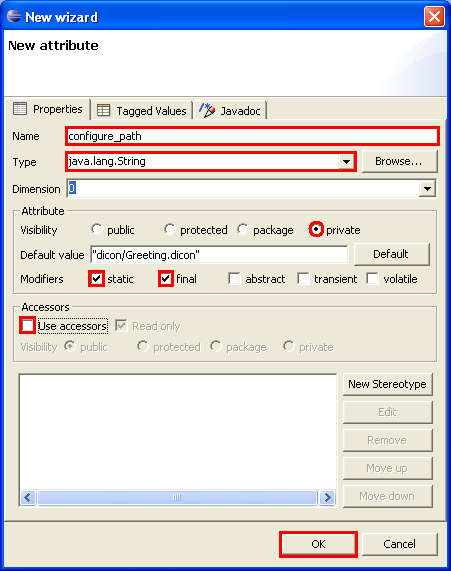
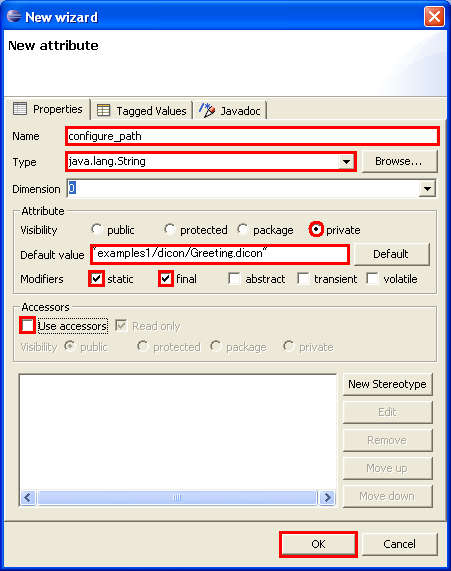
git-svn-id: https://www.seasar.org/svn/www/www@200 1447b1ea-c1f7-0310-af6f-cdb6f6f84f4f

Changed region(s): [[0.1863, 0.4168, 0.7761, 0.4764]]

diff --git a/en/tutorial/debug/setup/index.html b/en/tutorial/debug/setup/index.html
@@ -1,0 +1,77 @@
+<!DOCTYPE html PUBLIC "-//W3C//DTD HTML 4.01 Transitional//EN" "http://www.w3.org/TR/html4/loose.dtd">
+<html>
+<!-- don't edit start -->
+<head><title>Debug Setup</title><meta http-equiv="Content-Type" content="text/html; charset=UTF-8">
+<meta http-equiv="Content-Style-Type" content="text/css">
+<link media="screen" href="../../css/install.css" "type=text/css" rel="stylesheet">
+<link href="../../seasar_b.css" type="text/css" rel="stylesheet" media="screen"><script src="seasar_b.js" type="text/JavaScript" language="JavaScript"></script>
+</head><body onload="preload('en')">
+<table width="100%" border="0" cellspacing="0" cellpadding="0" align="left"><tr>
+<td align="left" valign="top" width="780"><table width="780" border="0" cellspacing="0" cellpadding="0" class="white">
+<tr><td colspan="7"><img height="5" width="780" src="../../images/top01_b.gif" alt=""></td></tr>
+<tr><td><img height="117" width="235" src="../../images/top02_b.gif" alt="Seasar"></td>
+<td colspan="3"><img height="117" width="289" src="../../images/top03.gif" alt="DI Container with AOP"></td>
+<td colspan="3" align="right"></td>
+</tr><tr><td rowspan="2"><img src="../../images/top04.gif" alt="" height="49" width="235"></td>
+<td><a href="http://www.seasar.org/en/index.html"><img src="../../images/menu01_b_en.gif" height="30" width="78" border="0" alt="" id="menu01" onmouseover="swap(1)" onmouseout="restore(1)"></a></td>
+<td><a href="http://www.seasar.org/en/projects.html"><img src="../../images/menu02_b_en.gif" height="30" width="101" border="0" alt="" id="menu02" onmouseover="swap(2)" onmouseout="restore(2)"></a></td>
+<td><a href="http://www.seasar.org/en/products.html"><img src="../../images/menu06_b_en.gif" height="30" width="110" border="0" alt="" id="menu06" onmouseover="swap(6)" onmouseout="restore(6)"></a></td>
+<td><a href="http://www.seasar.org/en/documents.html"><img src="../../images/menu04_b_en.gif" height="30" width="109" border="0" alt="" id="menu04" onmouseover="swap(4)" onmouseout="restore(4)"></a></td>
+<td><a href="http://www.seasar.org/en/resources.html"><img src="../../images/menu05_b_en.gif" height="30" width="113" border="0" alt="" id="menu05" onmouseover="swap(5)" onmouseout="restore(5)"></a></td>
+<!--
+<td><img src="../../images/menu07_b_en.gif" height="30" width="109" border="0" alt=""  id="menu07" onmouseover="swap(7)" onmouseout="restore(7)"></td>
+//-->
+<td><img height="30" width="34" src="../../images/menu06.gif" alt=""></td></tr><tr>
+
+<td colspan="6"><img height="19" width="545" src="../../images/spacer.gif" alt=""></td></tr></table>
+<table  width="780" border="0" cellspacing="0" cellpadding="0" class="menu">
+<tr align="left" valign="top"><td width="14"><img height="14" width="14" src="../../images/spacer.gif" alt=""></td><td width="740" class="main">
+<!-- don't edit end -->
+<!-- document start -->
+
+<font size=6><b>Debug Setup</b></font> <font size=3>by H.Ozawa</font><br />
+<hr /><br />
+To debug Seasar, we will first setup Eclipse preference.
+<ol>
+<li>Select <span class="menu2">Window</span> - <span class="menu2">Preferences...</span>.</li><br />
+<img src="setup1.jpg"/><br/>
+<li>Select <span class="menu2">UML</span>. This is a preference, but it bothers me to see the splash screen each time so I usually uncheck <span class="check">Show splash screen</span>.<br />
+I usually work with the "Eclipse" presentation style, but for now let's set to to <span class="check">Omondo</span>.<br />
+Select the <span class="button">Apply</span> button.
+</li><br />
+<img src="setup2.jpg"/><br/>
+<li>Error messages usually display which line number has the error. To track the error, we'll display the line number.<br />
+Select <span class="menu2">General</span> - <span class="menu2">Editors</span> - <span class="menu2">Text Editors</span>. Set "Displayed tab width" to <span class="enter">2</span> and check the <span class="check">Show line numbers</span>.<br />
+Select the <span class="button">OK</span> button.</li><br />
+<img src="setup3.jpg"/><br/>
+<li>Class diagram should now be in UML notation.</li><br />
+<img src="setup4.jpg"/><br/>
+<li>We'll now activate Kijimuna to find any dicon errors.<br />
+Right click on the package - in this example, right click on <span class="menu2">examples1</span> and select <span class="menu2">Properties</span> in the context menu.</li><br />
+<img src="setup5.jpg"/><br/>
+<li>Select <span class="menu2">Kijimuna</span> and check on <span class="check">Seasar2 project</span>. Select the <span class="button">OK</span> button.</li><br />
+<img src="setup6.jpg"/><br/>
+</ol>
+We are now ready to start debugging!<br />
+<HR><BR>
+<H3>Content</H3>
+<TABLE class="content" width="400">
+<TR><TH class="header"><A href="../../index.html">Seasar UML Tutorial Page</A></TH></TR>
+<TR><TD>Debug Setup</TD></TR>
+<TR><TD>Debugging UML HelloWorld1</TD></TR>
+</TABLE>
+<!-- document end -->
+<!-- don't edit start -->
+</td>
+<td width="14"><img height="14" width="14" src="../../images/spacer.gif" alt=""></td>
+</tr><tr>
+<td width="14"><img height="30" width="14" src="../../images/spacer.gif" alt=""></td>
+<td width="766"><img height="30" width="592" src="../../images/spacer.gif" alt=""></td></tr><tr>
+<td width="14"><img height="14" width="14" src="../../images/spacer.gif" alt=""></td>
+<td width="766" class="copyright"> Copyright&copy;2005, H.Ozawa. All rights reserved.</td>
+</tr></table>
+<td class="backright" align="left" valign="top">&nbsp;</td></tr><tr>
+<td class="backunder" align="left"  valign="top" width="780" height="16">&nbsp;</td>
+<td class="backcorner" align="left" valign="top" height="16">&nbsp;</td>
+</tr></table></body>
+<!-- don't edit end -->

diff --git a/en/tutorial/uml/helloworld/index3.html b/en/tutorial/uml/helloworld/index3.html
@@ -39,7 +39,7 @@
 <img src="uml42.jpg"/><br/>
 <li>Right click on the <span class="menu2">main.UMLHelloWorld1</span> and select <span class="menu2">New</span> - <span class="menu2">Attribute</span>.</li><br />
 <img src="uml43.jpg"/><br/>
-<li>Enter <span class="enter">configure_path</span> as the "Name", <span class="enter">java.lang.String</span>, select <span class="check">private</span> as the "Visibility of Attribute", check <span class="check">static</span> and <span class="check">final</span> as Modifiers, and uncheck <span class="check">Use accessors</span>.<br />
+<li>Enter <span class="enter">configure_path</span> as the "Name", <span class="enter">java.lang.String</span>, enter <span class="enter">"examples1/dicon/Greeting.dicon"</span> as the Default value, select <span class="check">private</span> as the "Visibility of Attribute", check <span class="check">static</span> and <span class="check">final</span> as Modifiers, and uncheck <span class="check">Use accessors</span>.<br />
 Select the <span class="button">OK</span> button.</li><br />
 <img src="uml44.jpg"/><br/>
 <li>We'll now enter codes to the main method.<br />
@@ -117,7 +117,7 @@ If there is an error, move on to the the <a href="../../debug/UMLHelloWorld/inde
 <TR><TD><A href="index.html">UML Hello World 1 - 1/3</A></TD></TR>
 <TR><TD><A href="index2.html">UML Hello World 1 - 2/3</A></TD></TR>
 <TR><TD>UML Hello World 1 - 3/3</TD></TR>
-<TR><TD><A href="../../debug/UMLHelloWorld/index.html">Debugging Seasar</A></TD></TR>
+<TR><TD><A href="../../debug/setup/index.html">Debugging Seasar</A></TD></TR>
 </TABLE>
 <!-- document end -->
 <!-- don't edit start -->

diff --git a/en/tutorial/index.html b/en/tutorial/index.html
@@ -38,13 +38,21 @@
 			<ul>
 				<li><a href="eclipse/Eclipse-SDK-3.1.1-win32/index.html">Setting Up Eclipse</a> - Eclipse is not necessary to use Seasar but it greatly improves productivity</li>
 				<li><a href="eclipse/uml_omondo/index.html">Setting Up Omondo UML Plugin</a> - UML is not necessary but it helps design in non-language dependent way.</li>
+				<li><a href="http://www.visual-paradigm.com/product/sde/ec/productinfosdeceec.jsp">Visual Paradigm</a> Another UML plugin for Eclipse.</li>
 				<li><a href="eclipse/seasar/index.html">Setting Up to Use Seasar</a> - adding Seasar classpath</li>
 				<li><a href="eclipse/kijimuna/index.html">Setting Up Kijimuna</a> - assist verification</li>
 			</ul>
 		</li>
 		<li>Examples
 			<ul>
-				<li><a href="uml/helloworld/index.html">UML Hello World!</a></li>
+				<li><a href="uml/helloworld/index.html">UML Hello World! (1/3)</a></li>
+				<li><a href="uml/helloworld/index2.html">UML Hello World! (2/3)</a></li>
+				<li><a href="uml/helloworld/index3.html">UML Hello World! (3/3)</a></li>
+			</ul>
+		</li>
+		<li>Debugging
+			<ul>
+				<li><a href="debug/setup/index.html">Getting Ready to Debug</a></li>
 			</ul>
 		</li>
 	</ul>

diff --git a/en/tutorial/eclipse/uml_omondo/index.html b/en/tutorial/eclipse/uml_omondo/index.html
@@ -31,7 +31,7 @@
 
 <font size=6><b>Omondo UML Eclipse Plugin</b></font> <font size=3>by H.Ozawa</font><br />
 <hr /><br />
-UML is not necessary to use Seasar nor Eclipse but it helps design software in a manner that is independent of a development language.
+UML is not necessary to use Seasar nor Eclipse but it helps design software in a manner that is independent of a development language. <font color="red"><b>Be warned that free version of Omondo UML Eclipse Plugin does not allow created UML diagrams to be shared! This implies that if you ever reinstall your Eclipse, you will no longer be able to open the diagrams you created earlier!</b></font>
 <OL>
 <LI>First of all, we need to download the plugin. Goto to <A href="http://www.eclipseuml.com/">http://eclipseuml.com/</A> and select the <SPAN class="enter">download...</SPAN> link in the menu on the left hand side of the page.<BR />
 <IMG src="1.jpg" width="700"/><BR/>

diff --git a/en/index.html b/en/index.html
@@ -36,6 +36,7 @@ DB connection, and connection pooling by the way of reconstructing the J2EE.<br 
 The goal of Seasar Foundation is to make system development easier and more developer friendly by offering open source software and information to everybody.
 </div>
 <ul>
+<li><a href="tutorial/index.html">Tutorial</a> (Basic Seasar)
 <li><a href="products.html">Products</a> (Open source software with documents)
 <li><a href="documents.html">Documents</a> (Seasar related documents)
 <li><a href="resources.html">Resources</a> (License and links)

diff --git a/en/tutorial/uml/helloworld/index2.html b/en/tutorial/uml/helloworld/index2.html
@@ -93,6 +93,7 @@ Select the <img src="class.jpg"/> and drag the mouse to create a rectangle.</li>
 <TR><TD><A href="index.html">UML Hello World 1 - 1/3</A></TD></TR>
 <TR><TD>UML Hello World 1 - 2/3</TD></TR>
 <TR><TD><A href="index3.html">UML Hello World 1 - 3/3</A></TD></TR>
+<TR><TD><A href="../../debug/setup/index.html">Debugging Seasar</A></TD></TR>
 </TABLE>
 <!-- document end -->
 <!-- don't edit start -->

diff --git a/en/tutorial/uml/helloworld/index.html b/en/tutorial/uml/helloworld/index.html
@@ -92,6 +92,7 @@ Progress to <A href="index2.html">next page</a>.
 <TR><TD>UML Hello World 1 - 1/3</TD></TR>
 <TR><TD><A href="index2.html">UML Hello World 1 - 2/3</A></TD></TR>
 <TR><TD><A href="index3.html">UML Hello World 1 - 3/3</A></TD></TR>
+<TR><TD><A href="../../debug/setup/index.html">Debugging Seasar</A></TD></TR>
 </TABLE>
 <!-- document end -->
 <!-- don't edit start -->
